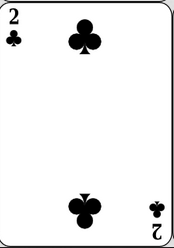
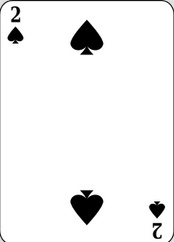
Fixing display of wrong suit and sorting bug on string input

Changed region(s): [[0.0, 0.0, 1.0, 1.0], [0.3736, 0.7521, 0.6034, 0.9256], [0.3736, 0.0579, 0.6034, 0.2314]]

diff --git a/scripts/hand.js b/scripts/hand.js
@@ -70,14 +70,14 @@ var Hand = Class.create({
     },
     applyRules: function() {
         if (this.cards !== undefined && this.cards.length === this.fullHand) {
-            this.sortCards();
+            this.cardsAndStats.rankedCards = this.sortedCards();
             this.countCards();
             var rules = new Rules(this.cardsAndStats);
             return rules.applyToHand();
         }
     },
-    sortCards: function() {
-        this.cardsAndStats.rankedCards = this.cards.sort(function (a, b) {
+    sortedCards: function() {
+         return this.cards.sort(function (a, b) {
             return b.rank - a.rank
         });
     },

diff --git a/scripts/main.js b/scripts/main.js
@@ -20,9 +20,10 @@
 
         var showContent = function(hand) {
             $container.html('');
+            var cards = hand.sortedCards();
 
-            for (var i=0; i< hand.cards.length; i++) {
-                fillContent(hand.cards[i]);
+            for (var i=0; i< cards.length; i++) {
+                fillContent(cards[i]);
             }
             $handKind.html(hand.pokerHand);
         };
